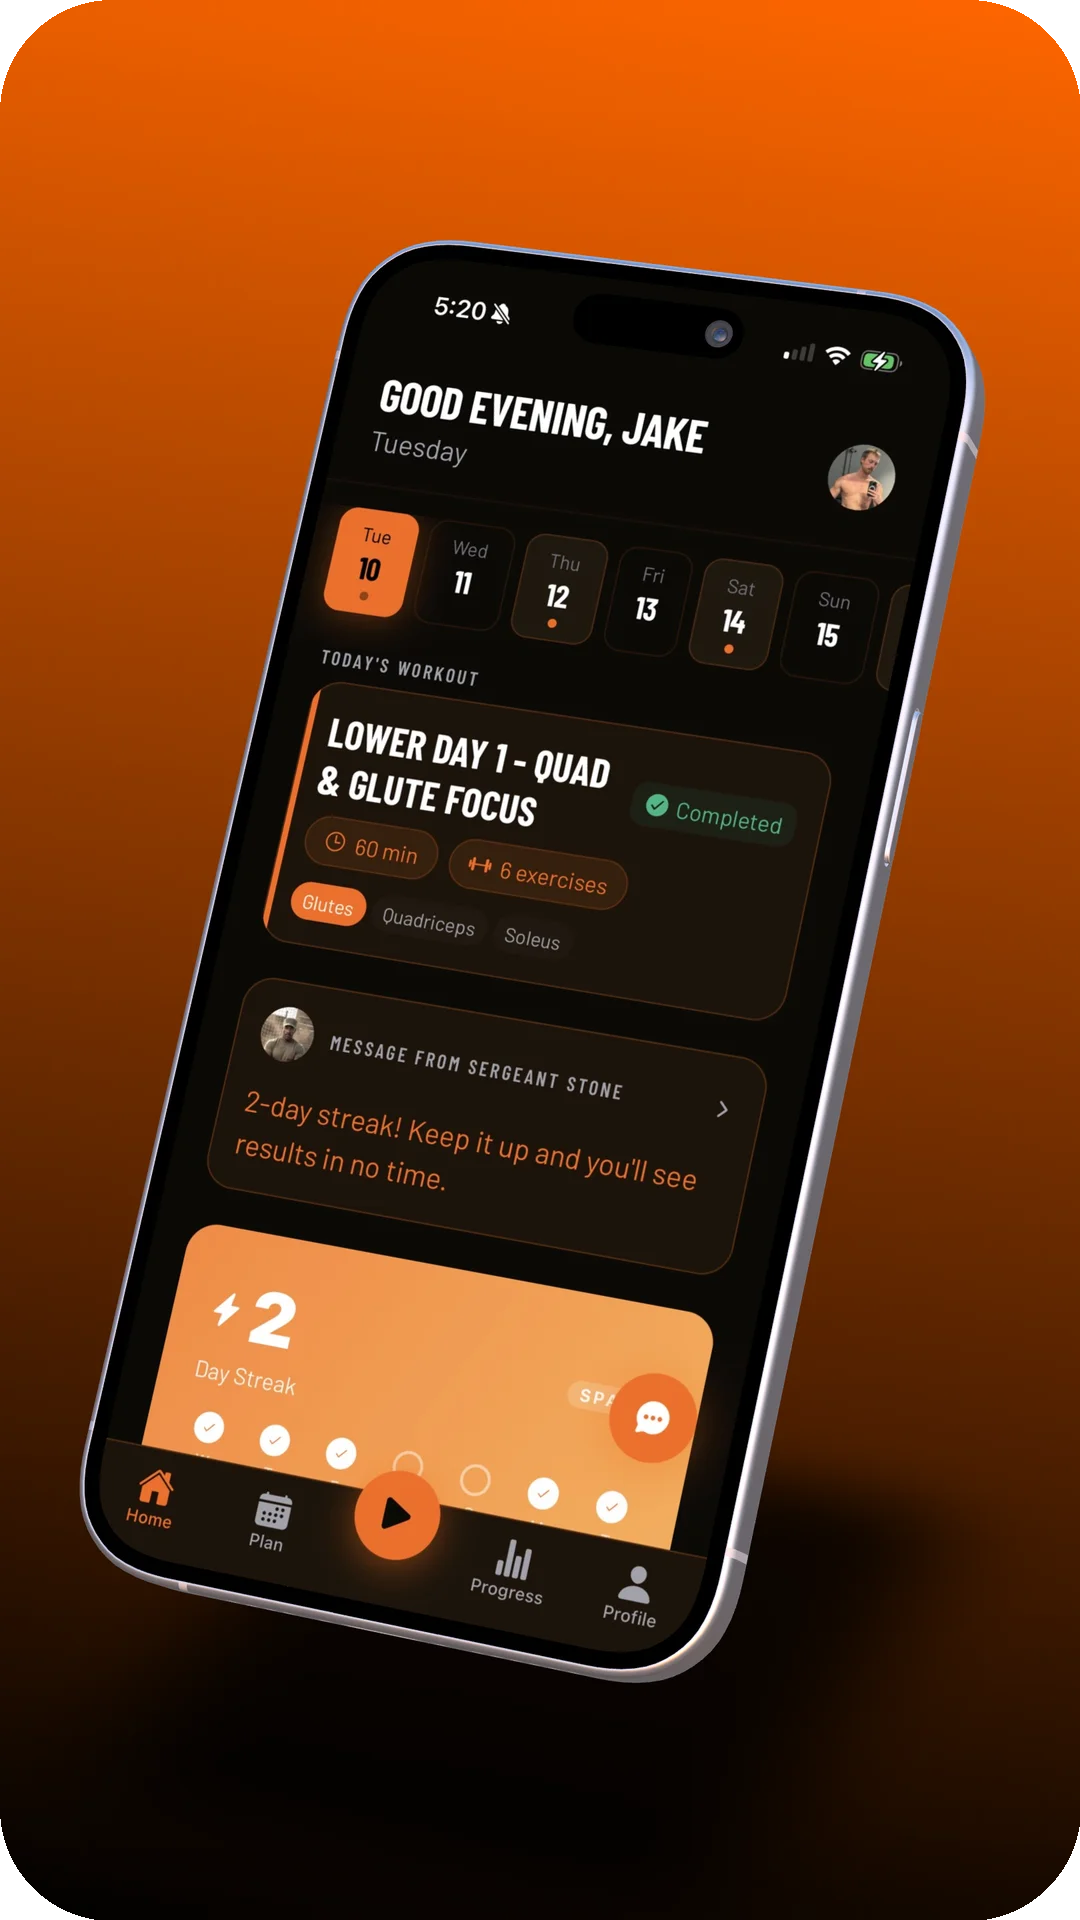
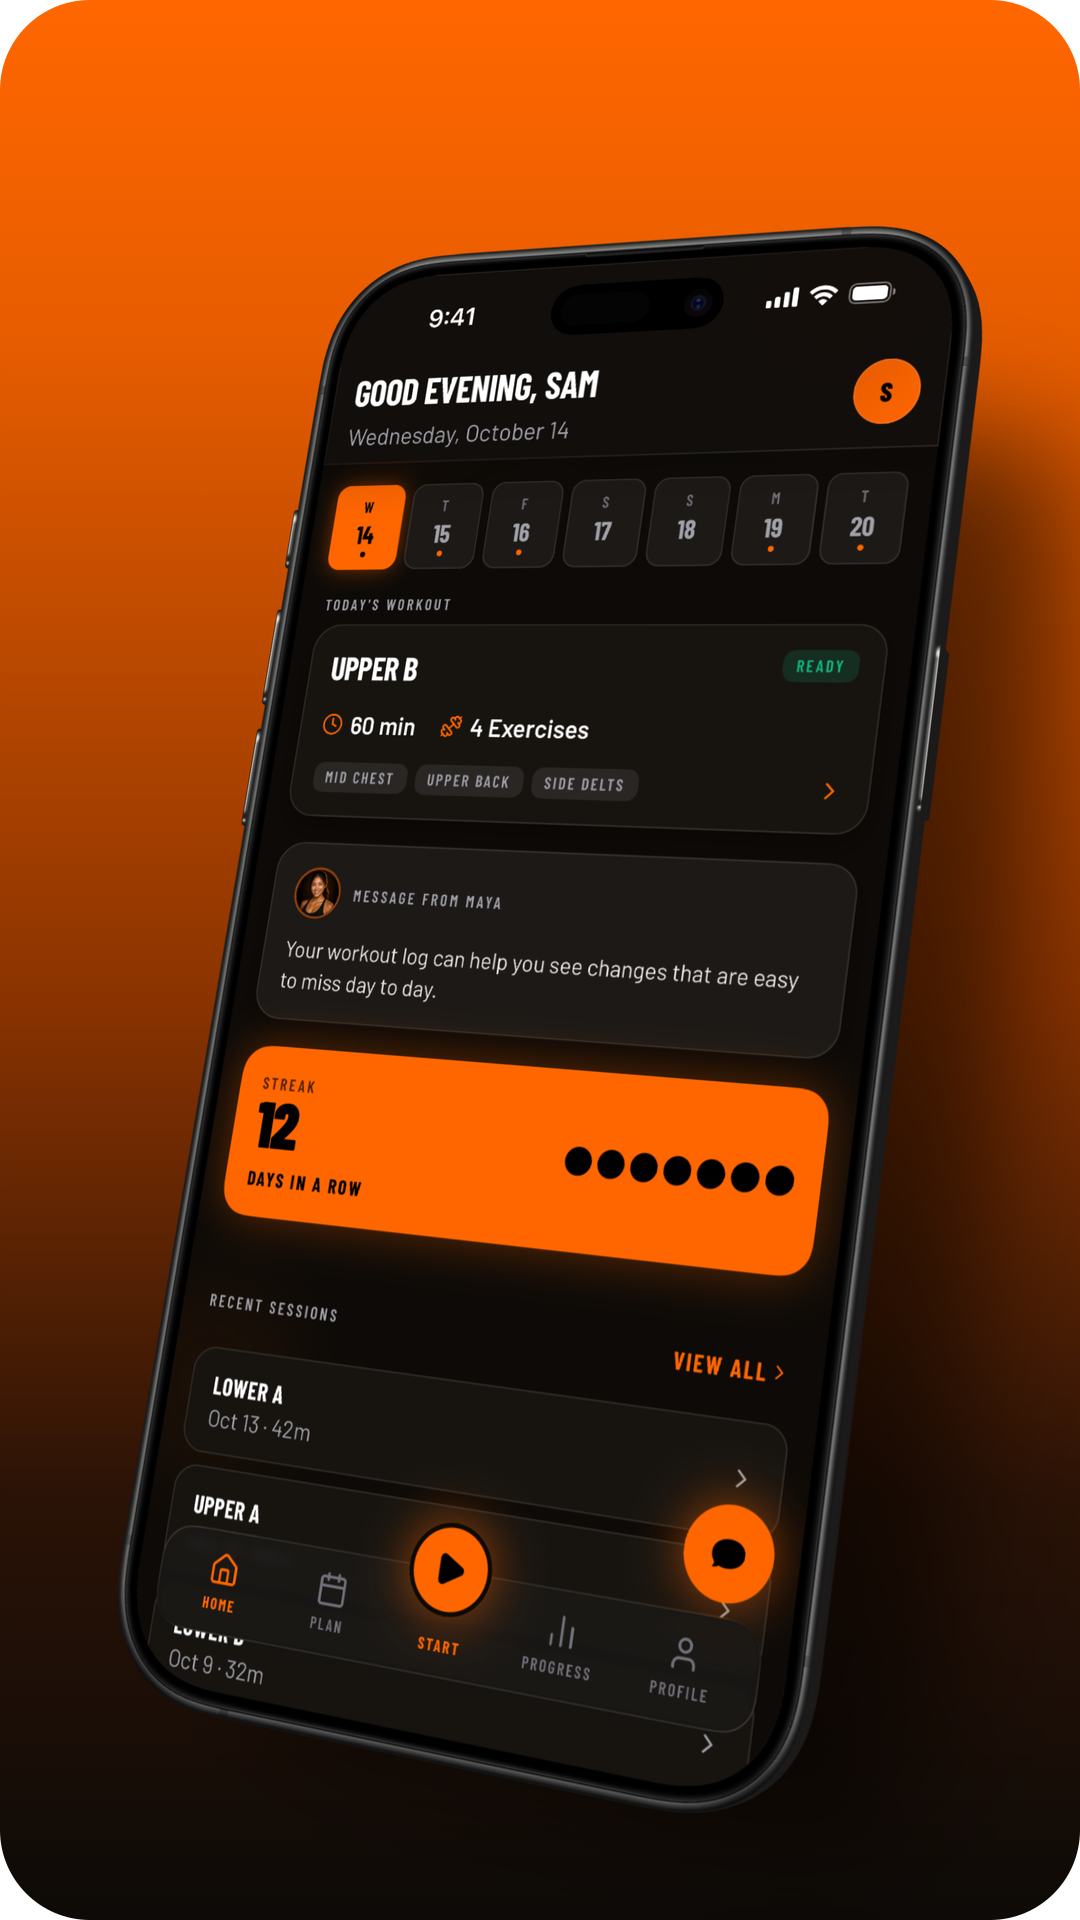
Match homepage OG image to the new hero
New iOS 2.0 phone render and the "Get stronger. Train with confidence."
headline.

diff --git a/src/app/opengraph-image.tsx b/src/app/opengraph-image.tsx
@@ -12,7 +12,7 @@ import {
   getMockupBase64,
 } from "@/lib/og-utils";
 
-export const alt = "Forge - Stop Guessing. Start Training.";
+export const alt = "Forge - Get Stronger. Train With Confidence.";
 export const size = { width: OG_WIDTH, height: OG_HEIGHT };
 export const contentType = ogImageConfig.contentType;
 
@@ -70,19 +70,7 @@ export default async function Image() {
                 letterSpacing: "-1px",
               }}
             >
-              STOP
-            </span>
-            <span
-              style={{
-                fontSize: 72,
-                fontFamily: "Barlow Condensed",
-                fontWeight: 800,
-                color: ORANGE,
-                textTransform: "uppercase",
-                letterSpacing: "-1px",
-              }}
-            >
-              GUESSING.
+              GET STRONGER.
             </span>
             <span
               style={{
@@ -94,7 +82,7 @@ export default async function Image() {
                 letterSpacing: "-1px",
               }}
             >
-              START
+              TRAIN WITH
             </span>
             <span
               style={{
@@ -106,7 +94,7 @@ export default async function Image() {
                 letterSpacing: "-1px",
               }}
             >
-              TRAINING.
+              CONFIDENCE.
             </span>
           </div>
 
